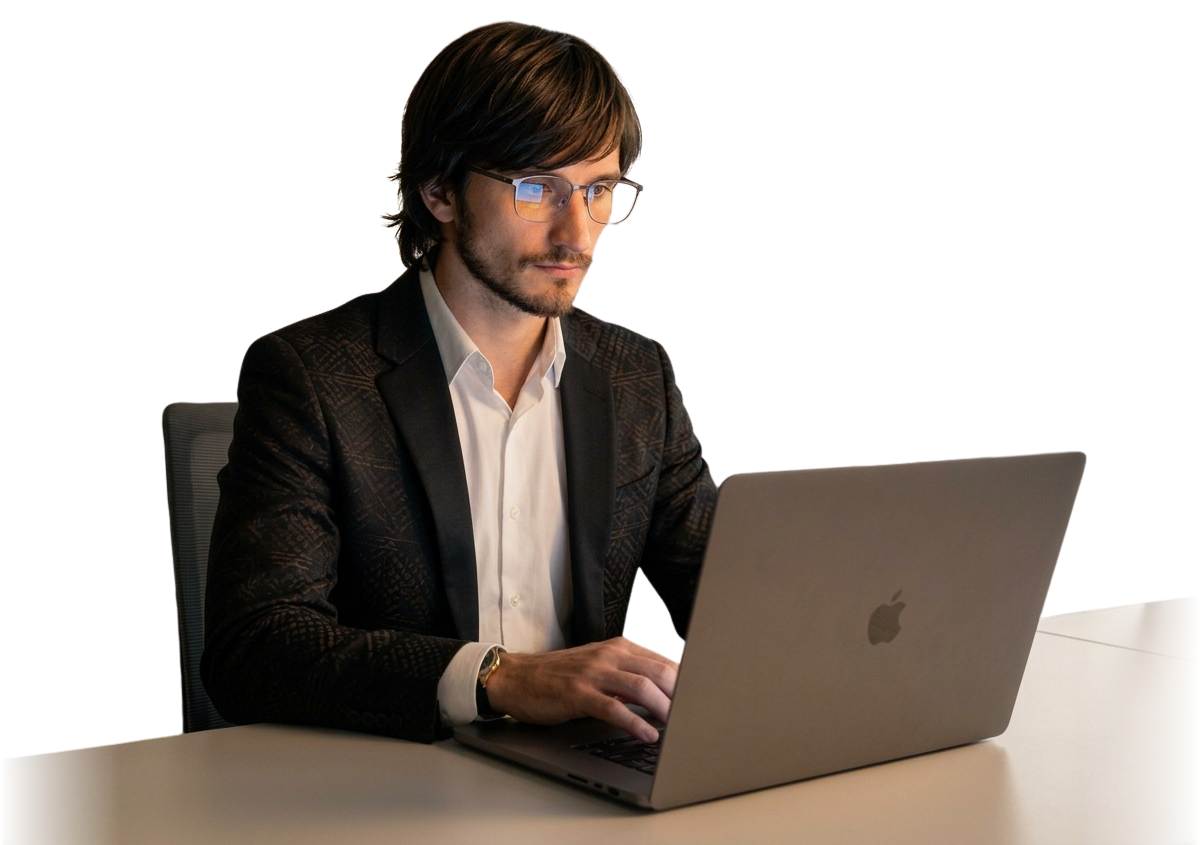
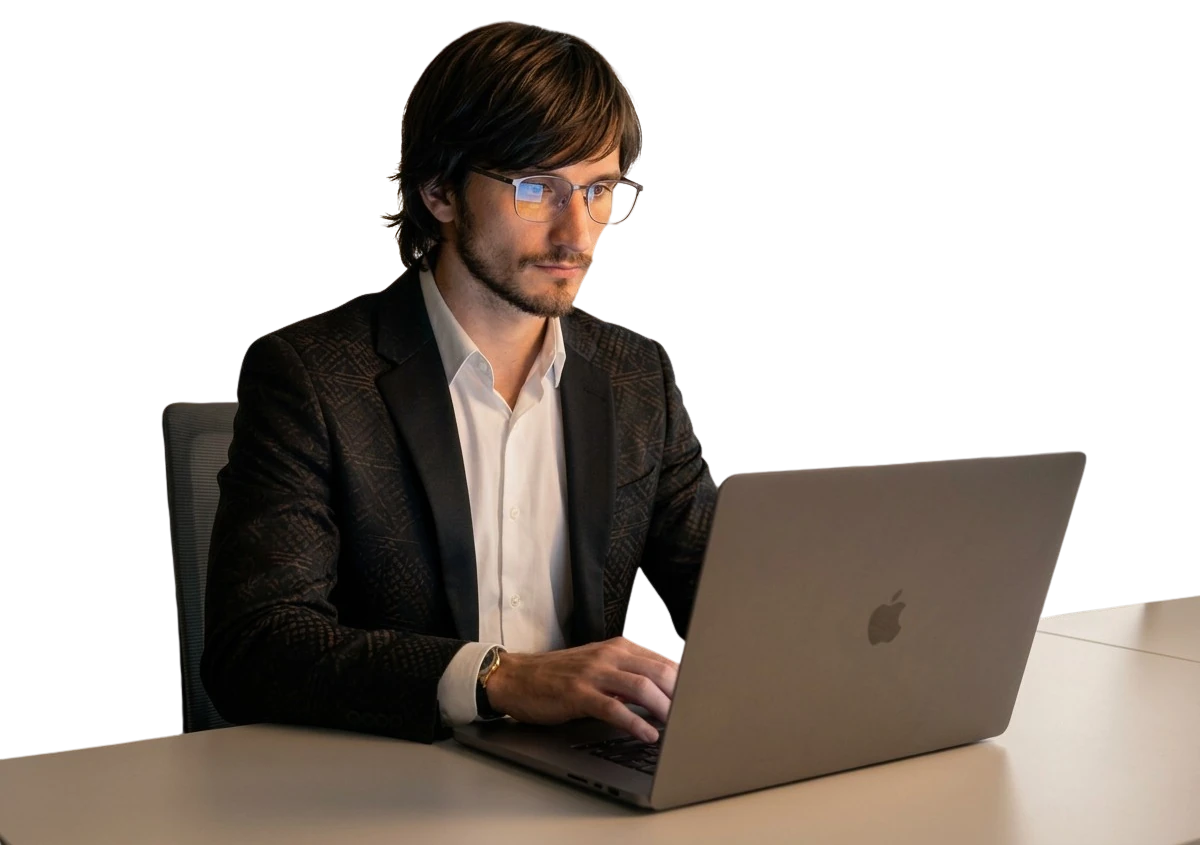
about-v2: clean cutout + CSS mask fade (desktop only)

Changed region(s): [[0.925, 0.7077, 1.0, 1.0], [0.0, 0.8615, 0.0925, 1.0]]

diff --git a/index.html b/index.html
@@ -1,5 +1,5 @@
 <!DOCTYPE html><html lang="en"> <head><meta charset="utf-8"><link rel="icon" type="image/svg+xml" href="/favicon.svg"><meta name="viewport" content="width=device-width, initial-scale=1"><meta name="generator" content="Astro v6.2.1"><link rel="preconnect" href="https://fonts.googleapis.com"><link rel="preconnect" href="https://fonts.gstatic.com" crossorigin><link href="https://fonts.googleapis.com/css2?family=Inter:wght@400;500;600;700&family=Newsreader:wght@400;500;600;700&display=swap" rel="stylesheet"><title>Alexander Makeev — AI-Native Engineering Lead &amp; First-Stage Strategist for R&amp;D Teams</title><link rel="stylesheet" href="/_astro/Layout.D-2xiJwd.css">
-<style>.marquee-container[data-astro-cid-vpzpabai]{opacity:.7;transition:opacity .4s ease;cursor:grab;user-select:none;-webkit-user-select:none;--col-w: min(100vw, 80rem);--solid-half: calc(var(--col-w) / 2);--fade-stop-left: calc(50% - var(--solid-half));--fade-stop-right: calc(50% + var(--solid-half));-webkit-mask-image:linear-gradient(to right,transparent 0%,black var(--fade-stop-left),black var(--fade-stop-right),transparent 100%);mask-image:linear-gradient(to right,transparent 0%,black var(--fade-stop-left),black var(--fade-stop-right),transparent 100%)}.marquee-container[data-astro-cid-vpzpabai]:hover{opacity:1}.marquee-container[data-astro-cid-vpzpabai].is-dragging{cursor:grabbing}@keyframes marquee{0%{transform:translate(0)}to{transform:translate(-50%)}}.marquee-track[data-astro-cid-vpzpabai]{animation:marquee 60s linear infinite;will-change:transform}.marquee-container[data-astro-cid-vpzpabai]:hover .marquee-track[data-astro-cid-vpzpabai]{animation-play-state:paused}.logo-link[data-astro-cid-vpzpabai]:hover{opacity:1!important}.marquee-container[data-astro-cid-vpzpabai].is-dragging .marquee-track[data-astro-cid-vpzpabai]{animation:none!important}@media(prefers-reduced-motion:reduce){.marquee-track[data-astro-cid-vpzpabai]{animation:none}}@keyframes bounce-down{0%,to{transform:translateY(0)}50%{transform:translateY(5px)}}.scroll-indicator[data-astro-cid-j7pv25f6]{animation:bounce-down 2s ease-in-out infinite}
+<style>.marquee-container[data-astro-cid-vpzpabai]{opacity:.7;transition:opacity .4s ease;cursor:grab;user-select:none;-webkit-user-select:none;--col-w: min(100vw, 80rem);--solid-half: calc(var(--col-w) / 2);--fade-stop-left: calc(50% - var(--solid-half));--fade-stop-right: calc(50% + var(--solid-half));-webkit-mask-image:linear-gradient(to right,transparent 0%,black var(--fade-stop-left),black var(--fade-stop-right),transparent 100%);mask-image:linear-gradient(to right,transparent 0%,black var(--fade-stop-left),black var(--fade-stop-right),transparent 100%)}.marquee-container[data-astro-cid-vpzpabai]:hover{opacity:1}.marquee-container[data-astro-cid-vpzpabai].is-dragging{cursor:grabbing}@keyframes marquee{0%{transform:translate(0)}to{transform:translate(-50%)}}.marquee-track[data-astro-cid-vpzpabai]{animation:marquee 60s linear infinite;will-change:transform}.marquee-container[data-astro-cid-vpzpabai]:hover .marquee-track[data-astro-cid-vpzpabai]{animation-play-state:paused}.logo-link[data-astro-cid-vpzpabai]:hover{opacity:1!important}.marquee-container[data-astro-cid-vpzpabai].is-dragging .marquee-track[data-astro-cid-vpzpabai]{animation:none!important}@media(prefers-reduced-motion:reduce){.marquee-track[data-astro-cid-vpzpabai]{animation:none}}@media(min-width:768px){.about-photo[data-astro-cid-tez5oanl]{-webkit-mask-image:linear-gradient(to right,transparent 0%,black 10%,black 90%,transparent 100%);mask-image:linear-gradient(to right,transparent 0%,black 10%,black 90%,transparent 100%)}}@keyframes bounce-down{0%,to{transform:translateY(0)}50%{transform:translateY(5px)}}.scroll-indicator[data-astro-cid-j7pv25f6]{animation:bounce-down 2s ease-in-out infinite}
 </style></head> <body class="bg-[#fafafa]"> <header id="site-header" class="fixed top-0 left-0 right-0 z-50 bg-white/95 backdrop-blur-sm border-b border-slate-200 transition-transform duration-300"> <nav class="max-w-7xl mx-auto px-6 py-4 flex items-center justify-between gap-8"> <!-- Logo + Brand block --> <a href="/" class="flex items-center gap-3 shrink-0"> <img src="/images/logo-am-sigma-cropped.png" alt="Alexander Makeev" class="w-14 h-14 md:w-16 md:h-16 object-contain"> <div class="flex flex-col leading-tight"> <span class="font-serif text-xl md:text-2xl text-slate-900 font-semibold">Alexander Makeev</span> <span class="hidden sm:block font-sans text-xs md:text-sm text-slate-600 mt-0.5">AI-Native Engineering Lead • First-Stage Strategist</span> </div> </a> <!-- Nav items --> <ul class="hidden lg:flex items-center gap-8 font-sans text-slate-700"> <li><a href="/about" class="hover:text-sky-600 transition">About</a></li> <li><a href="/services" class="hover:text-sky-600 transition">Services</a></li> <li><a href="/projects" class="hover:text-sky-600 transition">Projects</a></li> <li><a href="/blog" class="hover:text-sky-600 transition">Blog</a></li> </ul> <!-- CTA (desktop) --> <a href="https://www.toptal.com/hire/new/NYy13N/worlds-top-talent" target="_blank" rel="noopener" class="hidden md:inline-flex bg-sky-500 hover:bg-sky-600 text-white font-sans font-semibold px-5 py-2.5 rounded-lg transition shrink-0">
 Hire me
 </a> <!-- Hamburger button (mobile) --> <button id="mobile-menu-btn" class="lg:hidden text-slate-900 p-2 relative z-[60]" aria-label="Open menu" aria-expanded="false" aria-controls="mobile-menu"> <svg id="hamburger-icon" xmlns="http://www.w3.org/2000/svg" width="28" height="28" viewBox="0 0 24 24" fill="none" stroke="currentColor" stroke-width="2" stroke-linecap="round" stroke-linejoin="round"> <line x1="3" y1="6" x2="21" y2="6"></line> <line x1="3" y1="12" x2="21" y2="12"></line> <line x1="3" y1="18" x2="21" y2="18"></line> </svg> <svg id="close-icon" class="hidden" xmlns="http://www.w3.org/2000/svg" width="28" height="28" viewBox="0 0 24 24" fill="none" stroke="currentColor" stroke-width="2" stroke-linecap="round" stroke-linejoin="round"> <line x1="18" y1="6" x2="6" y2="18"></line> <line x1="6" y1="6" x2="18" y2="18"></line> </svg> </button> </nav> </header> <!-- Mobile full-screen overlay menu --> <div id="mobile-menu" class="hidden fixed inset-0 bg-white z-40 lg:hidden" role="dialog" aria-modal="true" aria-label="Mobile navigation"> <nav class="flex flex-col items-center justify-center h-full gap-8 font-sans text-2xl text-slate-900 px-6"> <a href="/about" class="hover:text-sky-600 transition">About</a> <a href="/services" class="hover:text-sky-600 transition">Services</a> <a href="/projects" class="hover:text-sky-600 transition">Projects</a> <a href="/blog" class="hover:text-sky-600 transition">Blog</a> <a href="https://www.toptal.com/hire/new/NYy13N/worlds-top-talent" target="_blank" rel="noopener" class="bg-sky-500 hover:bg-sky-600 text-white font-semibold text-xl px-8 py-4 rounded-lg transition mt-4">
@@ -78,11 +78,11 @@ Selected work
 A few teams I helped launch.
 </p> <div class="grid grid-cols-1 md:grid-cols-3 gap-8"> <div class="bg-white rounded-lg overflow-hidden shadow-sm hover:shadow-lg transition-shadow">  <!-- Caption --> <div class="p-6 flex flex-col gap-2"> <div class="flex items-baseline justify-between gap-2"> <h3 class="font-serif text-xl text-slate-900">Toptal — Conversion Engine</h3> <span class="font-sans text-xs text-slate-400 shrink-0">2016–2022</span> </div> <p class="font-sans text-sm text-slate-600 leading-relaxed">Tech-led a family of high-traffic Toptal quiz funnels for six years — designed the engine, tests, and handoff documentation that let a 10-person team own it after I rotated off.</p> <p class="font-sans text-xs text-slate-400 tracking-wide">Tech Leadership • Engine Architecture • Handoff &amp; Docs</p> </div> </div><div class="bg-white rounded-lg overflow-hidden shadow-sm hover:shadow-lg transition-shadow">  <!-- Caption --> <div class="p-6 flex flex-col gap-2"> <div class="flex items-baseline justify-between gap-2"> <h3 class="font-serif text-xl text-slate-900">FirmPilot — Legal Data Pipeline</h3> <span class="font-sans text-xs text-slate-400 shrink-0">2025–2026</span> </div> <p class="font-sans text-sm text-slate-600 leading-relaxed">Nationwide legal data pipeline. Transformed US court opinions across all states and court levels into structured, LLM-ready knowledge.</p> <p class="font-sans text-xs text-slate-400 tracking-wide">AI • Data Engineering • LLM Infrastructure</p> </div> </div><div class="bg-white rounded-lg overflow-hidden shadow-sm hover:shadow-lg transition-shadow">  <!-- Caption --> <div class="p-6 flex flex-col gap-2"> <div class="flex items-baseline justify-between gap-2"> <h3 class="font-serif text-xl text-slate-900">Wedding Catalog — Novosibirsk</h3> <span class="font-sans text-xs text-slate-400 shrink-0">2013–2014</span> </div> <p class="font-sans text-sm text-slate-600 leading-relaxed">Marketplace for wedding venues. Reached organic demand — venue owners called us to list their properties. Built filters, paid placements, full revenue model.</p> <p class="font-sans text-xs text-slate-400 tracking-wide">Marketplace • Product • Two-sided</p> </div> </div> </div> <div class="mt-12 text-center"> <a href="https://www.toptal.com/developers/resume/alexander-v-makeev/NYy13N/worlds-top-talent" target="_blank" rel="noopener" class="font-sans text-sky-600 hover:text-sky-700 font-semibold transition">
 More projects on Toptal →
-</a> </div> </div> </section>  <section class="bg-slate-100 overflow-hidden"> <div class="max-w-5xl mx-auto px-6 md:px-16 pt-12 md:pt-24"> <h2 class="font-serif text-4xl md:text-5xl text-slate-900 mb-8 md:mb-12">
+</a> </div> </div> </section>  <section class="bg-slate-100 overflow-hidden" data-astro-cid-tez5oanl> <div class="max-w-5xl mx-auto px-6 md:px-16 pt-12 md:pt-24" data-astro-cid-tez5oanl> <h2 class="font-serif text-4xl md:text-5xl text-slate-900 mb-8 md:mb-12" data-astro-cid-tez5oanl>
 Engineering since 2007. AI-native since 2021.
-</h2> </div> <div class="max-w-5xl mx-auto grid grid-cols-1 md:grid-cols-2 md:items-end"> <!-- Photo (mobile: top, full width; desktop: left column, natural height flush to bottom) --> <div class="order-1"> <img src="/images/about-v2.webp" alt="Alex working — engineering since 2007, AI-native since 2021" class="block w-full h-auto max-h-[400px] md:max-h-none object-contain object-bottom" loading="lazy"> </div> <!-- Bio (mobile: below photo; desktop: right column) --> <div class="order-2 flex items-end px-6 md:px-16 py-12 md:py-12"> <div> <p class="font-sans text-lg text-slate-600 leading-relaxed mb-8">
+</h2> </div> <div class="max-w-5xl mx-auto grid grid-cols-1 md:grid-cols-2 md:items-end" data-astro-cid-tez5oanl> <!-- Photo (mobile: top, full width; desktop: left column, natural height flush to bottom) --> <div class="order-1" data-astro-cid-tez5oanl> <img src="/images/about-v2.webp" alt="Alex working — engineering since 2007, AI-native since 2021" class="about-photo block w-full h-auto max-h-[400px] md:max-h-none object-contain object-bottom" loading="lazy" data-astro-cid-tez5oanl> </div> <!-- Bio (mobile: below photo; desktop: right column) --> <div class="order-2 flex items-end px-6 md:px-16 py-12 md:py-12" data-astro-cid-tez5oanl> <div data-astro-cid-tez5oanl> <p class="font-sans text-lg text-slate-600 leading-relaxed mb-8" data-astro-cid-tez5oanl>
 Toptal Top 3% engineer with 17+ years building products from sketch to scale. Worked with CERN (Python development for accelerator software), Budker Institute of Nuclear Physics (graph-based config systems), Intel (invited lecturer), and BairesDev. Today I focus on AI-native systems — multi-agent architectures, LLM cost optimization, production observability.
-</p> <a href="/about" class="font-sans text-sky-600 hover:text-sky-700 font-semibold transition">
+</p> <a href="/about" class="font-sans text-sky-600 hover:text-sky-700 font-semibold transition" data-astro-cid-tez5oanl>
 Read full bio →
 </a> </div> </div> </div> </section> <section class="bg-slate-50 py-24 px-6"> <div class="max-w-7xl mx-auto"> <h2 class="font-serif text-4xl md:text-5xl text-slate-900 text-center mb-4">
 Where I go deep